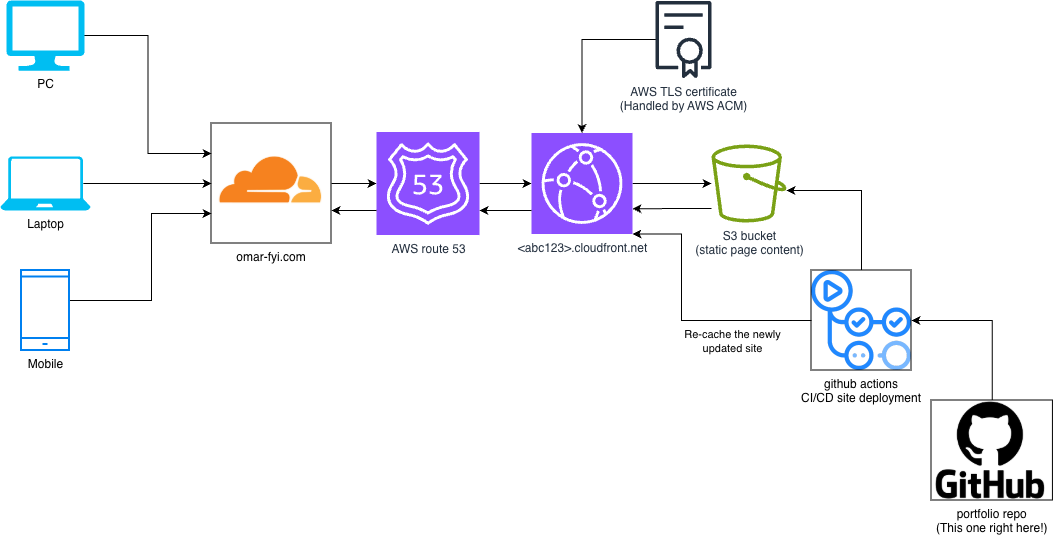
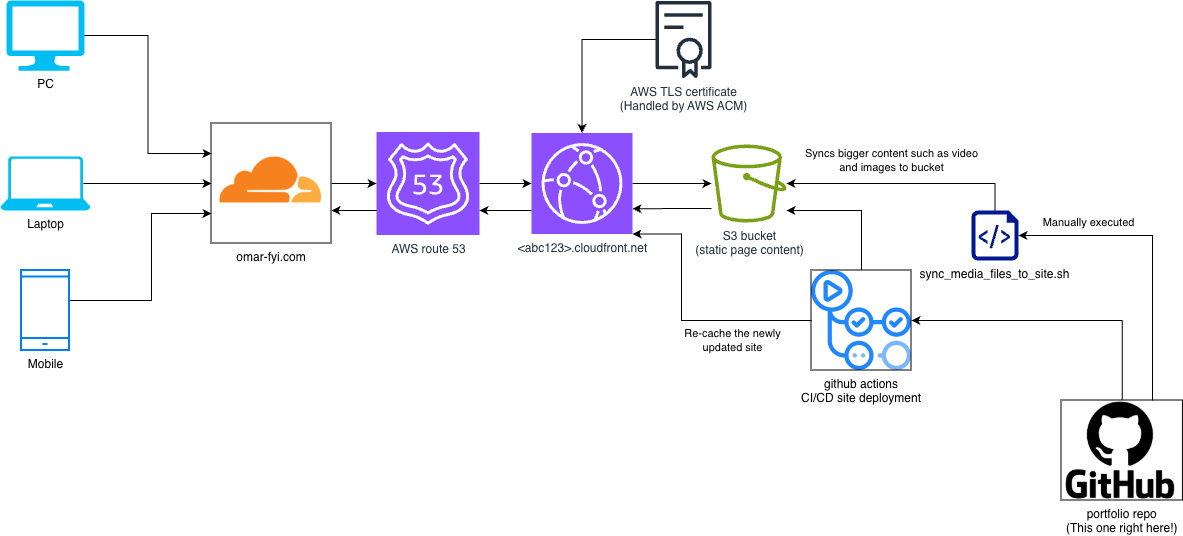
Added chages to UX including neater laytout and addressed essentially every issue that wasn't keeping my posts up to date lol

diff --git a/TODO.md b/TODO.md
@@ -7,9 +7,16 @@
 + A whole shopping website made in AWS workshop #2.
 + (In progress) A local LLM coding agent I can connect through a vs code extension and will act on my workspace just like Claude but instead using an LLM I am hosting on a remote machine.
 + POST TUTORIAL VIDEO ON HOW TO SET UP THE AGENT FROM SCRATCH
-+ Post showing I got featured in MDX's front page!
++ (In progress) Home NAS I used to back up all my photos and stuff
+
++DONE Post showing I got featured in MDX's front page!
+
++ How I made a basic home server NAS using a 6TB hard drive and a rpi 5.
++ How I wiressly connected to my old broken phone using adb tools and srcpy in order to rescue old picture and move them to my NAS.
++ Make a funny video/short to announce my amazing new portfolio site!
+
 + Hackathon idea: E-Commerce portal that generates quotes for salespeople based on what smiths has to offer. Amazon os
-+ AWS hacktahon kiro made microblogging app. Th emain USP of it is that it was a AWS workshop where I built a microblogging app in mere days using kiro: a very powerfull agentic AI IDE.
++ AWS hacktahon kiro made microblogging app. The main USP of it is that it was a AWS workshop where I built a microblogging app in mere days using kiro: a very powerfull agentic AI IDE.
 + SMARS rover rpi-zero remote tank made with 3D printed parts and recycled vape batteries.
 + How I made the site using Open Claw!
 + pokeme rpi screen

diff --git a/README.md b/README.md
@@ -176,6 +176,19 @@ git push origin main
 
 The GitHub Action will build the Astro site, sync it to S3, and invalidate the CloudFront cache. Your site should be live within ~90 seconds.
 
+
+### 7. Sync local content to bucket media folder
+
+Now you have a running website however you won't be able to upload much content to it since github has a limit of
+500MB. In order to sync your content to the remote bucket just run:
+
+```bash
+chmod +x sync_media_files_to_site.sh
+./sync_media_files_to_site.sh
+```
+
+And all your media content will be uploaded to the bucket. This goes for all the content located at `frontend/public/media`
+
 ## Deployment Workflow
 
 ### Automatic Deployment
